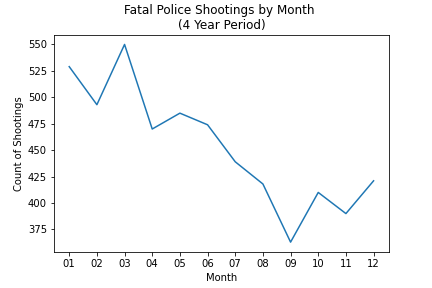
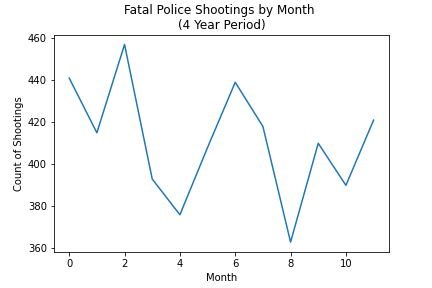
updated charts and readme

diff --git a/.virtual_documents/Analysis_SZ.ipynb.py b/.virtual_documents/Analysis_SZ.ipynb.py
@@ -71,14 +71,16 @@ plt.savefig('images/Shootings per Year.png')
 plt.show()
 
 
-monthly_shootings_df = pd.DataFrame(yearly_shootings.groupby('month')['id'].count())
-monthly_shootings_df
+# Remove 2020 information to focus on complete years available
+monthly_shootings = yearly_shootings.loc[yearly_shootings['year'] get_ipython().getoutput("= '2020']")
+# Grouped by month
+monthly_shootings_df = pd.DataFrame(monthly_shootings.groupby('month')['id'].count())
 monthly_shootings_df = monthly_shootings_df.reset_index()
 monthly_shootings_df
 
 
 # Plot
-plt.plot(monthly_shootings_df['month'], monthly_shootings_df['id'])
+plt.plot(monthly_shootings_df['id'])
 plt.title('Fatal Police Shootings by Month \n(4 Year Period)')
 plt.xlabel('Month')
 plt.ylabel('Count of Shootings')
@@ -305,13 +307,12 @@ line_eq = "y = " + str(round(slope,2)) + "x + " + str(round(intercept,2))
 plt.figure(figsize=(10,5))
 plt.scatter(x_values,y_values)
 plt.plot(x_values,regress_values,"r-")
-annotation = plt.annotate(line_eq,(2,10000000),fontsize=15,color="red")
+annotation = plt.annotate(line_eq,(2,2000000),fontsize=15,color="red")
 plt.xlabel('Shootings Per 100,000')
 plt.ylabel('Average City Population')
 plt.title('Regressiong Analysis of Fatal Shootings per 100,000 in a Four Year Period vs City Population \n(2017-2018)')
-plt.tight_layout()
 print(f"The r-squared is: {rvalue**2}")
-
+plt.tight_layout()
 # Export
 plt.savefig('images/High Level Regression_City Population Vs. Per Capita Shooting Fatalities.png')
 plt.show()
@@ -415,6 +416,3 @@ plt.tight_layout()
 # Export
 plt.savefig('images/City Population Vs. Per Capita Shooting Fatalities 2.png')
 plt.show()
-
-
-

diff --git a/README.md b/README.md
@@ -1,17 +1,20 @@
 # Fatal Police Shootings Analysis #
 **Team members:** [Brynn Hamilton](https://github.com/Brynn-Hamilton),[ Alissa Vokes](https://github.com/alissavokes), and [Saranhais Zerpa](https://github.com/szerpa17)
 
-## Project Description/Outline ##
+## Project Description ##
 The goal of our project is to examine fatal police shootings throughout the U.S. from January 2015 to June 2020. We will examine relationships between shootings, time, location (both city and state level), population size, and victim demographics (age, race, and gender).
+
+Our interest in this topic is due to the social movement taking place, Black Lives Matter, for which we want to explore existing data.
 
 ### Hypothesis ###
 **Null Hypothesis:** There is no correlation between population size and fatal police shootings.
+
 **Alternative Hypothesis:** Cities/States with higher populations have more police shootings (for every 100,000 people).
 
 
 ### Additional Research Questions ###
 1. Accounting for gender, race, and age, which demographic has had the most victims due to fatal police shootings?
-2. Will Florida (State) be one of the top 5 States with the most recorded fatal police shootings? 
+2. Will Florida (State) be one of the top 5 states with the most recorded fatal police shootings? 
 3. Which City has the most recorded fatal police shootings? 
 4. Which State has the most recorded fatal police shootings?
 5. Have police shootings increased in the past five years?
@@ -20,26 +23,25 @@ The goal of our project is to examine fatal police shootings throughout the U.S.
 
 ## Datasets ##
 * [Washington Post Police Shooting Data](https://github.com/washingtonpost/data-police-shootings)
-    * The time period focus of our project is from January 2015 to the end of June 2020.
 * [Census Population Data by State and Place - Table DP05 ACS 1-Year](https://data.census.gov/cedsci/table?q=population&g=0100000US.04000.001,.160000&hidePreview=false&tid=ACSDP1Y2018.DP05&tp=true&vintage=2018)
     * Four CSVs were obtained from the Census site.
-    * The files were used used to identify yearly city and state populations between 2015 and 2018.
-    * Due to the lack of availability of 2019 nd 2020, population averages were calculated over the selected timeframe.
-    * The 1-year estimates were used for the purpose of [currency](https://www.census.gov/programs-surveys/acs/guidance/estimates.html), though this left out populations under 65,000.
+    * The files were used to identify yearly city and state populations between 2015 and 2018.
+    * Due to the lack of availability of 2019 and 2020 population data, population averages were calculated over the selected timeframe.
+    * The 1-year estimates were used for data [currency](https://www.census.gov/programs-surveys/acs/guidance/estimates.html), though this left out populations under 65,000.
 
 ## The Cleaning Process ##
 * **Learning the Language of our Data**
     * Each Census file had over 300 columns and 600 rows of information
-    * Time was dedicated to studying how information was presented by the Census in order to accurately transform it into insights.
+    * Time was dedicated to studying how information was presented by the Census to accurately transform it into insights.
 * **Addressing NaN values**
-    * The shootings data frame had multiple columns with Nan Values.
+    * The shooting's data frame had multiple columns with NaN Values.
     * As our goal was to preserve the ID column to ensure an accurate count, we refrained from dropping NaN values and instead replaced them with the word 'Unknown'.
 * **Filtering of Data**
     * Extracted shooting data that was dated after 06/30/2020.
 * **Readability**
     * The gender and race columns variables were renamed for readability.  
 * **The handling and standardization of multiple files prior to merging**
-    * Census Data files had additional terminology associated with city names, which had to be removed with Regex in order to facilitate a future merge with the shootings data frame.
+    * Census Data files had additional terminology associated with city names, which had to be removed with Regex to facilitate a future merge with the shootings data frame.
     * Trailing spaces were removed.
     * All Census files were merged into one data frame.
     * Population averages over our chosen four year period were calculated.
@@ -47,15 +49,15 @@ The goal of our project is to examine fatal police shootings throughout the U.S.
 
 ### Insights ###
 
-* The usefullness of creating multiple data frames to address the shrinkage of Data.
-    * Cleaned and merged Census data frame - usefull for a high level view of state population.
-    * Cleaned shootings data frame - usefull for shooting specific analysis.
-    * Merged shootings/Census data frame - useful for the calculation of shooting data per 100,000 people.
+* The usefulness of creating multiple data frames to address the shrinkage of Data.
+    * Cleaned and merged Census data frame, used for a high-level view of state populations.
+    * Cleaned shooting's data frame, used for shooting specific analysis.
+    * Merged shooting's/Census data frame, used for the calculation of shooting data per 100,000 people.
 
 ### Challenges ###
-* Census Place terminology
+* Census 'Place' terminology
     * A resource for all 'place' designations was identified within the analysis stage of the project.
-    * Therefore, it is possible that cities may have been dropped due to not being matched with the appropriate Census equivalent in the Regex step of the data cleaning. 
+    * Therefore, cities may have been dropped due to not being matched with the appropriate Census equivalent in the Regex step of the data cleaning. 
     * Resource [link](https://www.census.gov/content/dam/Census/data/developers/understandingplace.pdf)
 * **File Inconsistencies**
     * Census Data files were not consistent in their use of column ID's and column description formats in all files
@@ -65,28 +67,32 @@ The goal of our project is to examine fatal police shootings throughout the U.S.
 ## Data Exploration ##
 * State and city population information was visualized
     * State
-        * Population by State Boxplot
+        * Population by State Boxplot (Zoomed, not including all outliers)
+            
             ![State Population Box Plot- Individual States](https://github.com/szerpa17/fatal-police-shootings/blob/szerpa17_2/images/State%20Box%20Plot%20Exploration.png?raw=true)
         * Combined State Average Boxplot
+            
             ![Average State Population Single Box Plot - Combined States](https://github.com/szerpa17/fatal-police-shootings/blob/master/images/Combined%20Average%20State%20Population%20Exploration.png?raw=true)
     * City
         * Combined City Boxplot
-            [Average City Population Single Box Plot - Combined Cities](https://github.com/szerpa17/fatal-police-shootings/blob/master/images/Combined%20Average%20City%20Population%20Exploration.png?raw=true)
+            
+            ![Average City Population Single Box Plot - Combined Cities](https://github.com/szerpa17/fatal-police-shootings/blob/master/images/Combined%20Average%20City%20Population%20Exploration.png?raw=true)
         
 ### Insights ###
 * Census Data
     * This dataset may be limiting in the findings it can provide as it excludes populations under 65,000, which may demonstrate different trends.
     * Outliers
-        * Visual exploration on state and city data identified the presence of outliers. 
-        * Our hypothesis is focused on population size, therefore, it was determined that outliers would be maintained for our analysis in order to gain additional insights on these populations.
+        * Visual exploration of state and city data identified the presence of outliers. 
+        * Our hypothesis is focused on population size, therefore, it was determined that outliers would be maintained for our analysis to gain additional insights into these populations.
 
 ### Challenges ###
 * Accounting for "Unknown" values in numeric columns.
     * Though inputting these values in place of NaNs in the cleaning stage, these values made data analysis more complex when dealing with numeric columns. 
 * Scope Creep
-    * Due to not removing data columns that werent a part of our scope, it was difficult to avoid from scope creep.
+    * Due to not removing data columns that were not a part of our scope, it was difficult to avoid scope creep.
     * The mass size of our data also contributed to scope creep as we did not pull samples from our data for analysis.
-* Backtracking to validate the results of plotted charts. 
+* Identifying the opportunity for additional data frames to be made as a foundation for data analysis in the exploration phase (such as a Census data frame that pulls city shooting data for state per capita calculations).
+* The process of backtracking to validate the results of plotted charts. 
 * Application of complicated visualizations.
 * Time - which limited analysis and visual details on charts. 
 
@@ -96,10 +102,12 @@ The goal of our project is to examine fatal police shootings throughout the U.S.
 ## Findings ##
 **Hypothesis results**
 
+A note on R-squared values - data based on human behavior can often have a low r-squared as it is difficult to predict and show statistical significance. ([Source](https://statisticsbyjim.com/glossary/regression-analysis/))
+
 **State:** 
 * No visible correlation
 * Low R-squared: 0.09013598548243928
-* Null hypothesis was found to be True
+* The null hypothesis was found to be true.
     * [Analysis Location](https://github.com/szerpa17/fatal-police-shootings/blob/master/Analysis_SZ.ipynb)
 
         ![State Scatter Plot](https://github.com/szerpa17/fatal-police-shootings/blob/master/images/High%20Level_State%20Population%20Vs.%20Per%20Capita%20Shooting%20Fatalities.png?raw=true)
@@ -110,8 +118,8 @@ The goal of our project is to examine fatal police shootings throughout the U.S.
         
         
 **City:**
-* Inverse correlation. implying larger cities have less police shootings per capita.
-* Low R-squared: 0.09013598548243928
+* Smaller R-squared value, but a more visible grouping of cities, visually implying larger cities have fewer police shootings per capita.
+* Low R-squared: 0.0026383280666281714
 * Neither hypothesis could be accepted.
     * [Analysis Location](https://github.com/szerpa17/fatal-police-shootings/blob/master/Analysis_SZ.ipynb)
 
@@ -119,17 +127,18 @@ The goal of our project is to examine fatal police shootings throughout the U.S.
 
         ![City Regression](https://github.com/szerpa17/fatal-police-shootings/blob/master/images/High%20Level%20Regression_City%20Population%20Vs.%20Per%20Capita%20Shooting%20Fatalities.png?raw=true)
 
-        ![City Trends - Subplots 1](https://github.com/szerpa17/fatal-police-shootings/blob/master/images/City%20Population%20Vs.%20Per%20Capita%20Shooting%20Fatalities%201.png?raw=true)
-
-        ![City Trends - Subplots 2](https://github.com/szerpa17/fatal-police-shootings/blob/master/images/City%20Population%20Vs.%20Per%20Capita%20Shooting%20Fatalities%202.png?raw=true)
+        ![City Trends - Subplots 1](https://github.com/szerpa17/fatal-police-shootings/blob/master/images/City%20Population%20Vs.%20Per%20Capita%20Shooting%20Fatalities%202.png?raw=true)
+        
+        ![City Trends - Subplots 2](https://github.com/szerpa17/fatal-police-shootings/blob/master/images/City%20Population%20Vs.%20Per%20Capita%20Shooting%20Fatalities%201.png?raw=true)
+        
 
 * Questions Answered:
 1. Accounting for gender, race, and age, which demographic has had the most victims due to fatal police shootings?
     * The demographic with the most victims due to fatal police shootings are white males between the ages of 31-35.
     * [Analysis Location](https://github.com/szerpa17/fatal-police-shootings/blob/master/Analysis_BH.ipynb)
 
-2. Will Florida (State) be one of the top 5 States with the most recorded fatal police shootings? 
-    * Florida is among the top 5 States (#3) with the most fatal police shootings.
+2. Will Florida (State) be one of the top 5 states with the most recorded fatal police shootings? 
+    * Florida is among the top 5 states (#3) with the most fatal police shootings.
     * [Analysis Location](https://github.com/szerpa17/fatal-police-shootings/blob/master/Analysis_BH.ipynb)
     
 3. Which City has the most recorded fatal police shootings? 
@@ -139,7 +148,7 @@ The goal of our project is to examine fatal police shootings throughout the U.S.
         Houston
         Las Vegas
         San Antonio
-     * [Analysis Location](https://github.com/szerpa17/fatal-police-shootings/blob/master/Analysis_BH.ipynb)
+    * [Analysis Location](https://github.com/szerpa17/fatal-police-shootings/blob/master/Analysis_BH.ipynb)
             
 
 4. Which State has the most recorded fatal police shootings?
@@ -149,7 +158,7 @@ The goal of our project is to examine fatal police shootings throughout the U.S.
         Florida
         Arizona
         Colorado 
-     * [Analysis Location](https://github.com/szerpa17/fatal-police-shootings/blob/master/Analysis_BH.ipynb)
+    * [Analysis Location](https://github.com/szerpa17/fatal-police-shootings/blob/master/Analysis_BH.ipynb)
      
 [Visual Location](https://github.com/szerpa17/fatal-police-shootings/blob/master/Analysis.ipynb "Visual for Questions three and four")
                 
@@ -162,7 +171,7 @@ The goal of our project is to examine fatal police shootings throughout the U.S.
        ![Shooting Analysis by Year ](https://github.com/szerpa17/fatal-police-shootings/blob/master/images/Shootings%20per%20Year.png?raw=true) 
     
 6. Is there a particular time of the year during which police shootings occur more frequently?
-    * Most police shootings take place in the beginning of the year.
+    * Most police shootings take place at the beginning of the year.
     * [Analysis Location](https://github.com/szerpa17/fatal-police-shootings/blob/master/Analysis_SZ.ipynb)
         
         ![Shooting Analysis by Month ](https://github.com/szerpa17/fatal-police-shootings/blob/master/images/Shootings%20by%20Month.png?raw=true) 
@@ -192,16 +201,21 @@ The goal of our project is to examine fatal police shootings throughout the U.S.
 
 
 
-## Opportunities ##
-There are many opportunities for further exploration of this dataset in the below areas.
+## Commentary and Opportunities ##
+
+It is worth further investigating these populations with the removal of outliers to confirm the visual trend due to the extremely low r-squared values obtained. This project could also become narrower in scope to focus on one state or a sample of states/cities for further insights.
+
+** In regards to the results, though white males are a majority of the victims, according to the [Census Quickfacts](https://www.census.gov/quickfacts/fact/table/US/PST045219) 2019 estimates - the white population accounts for 76.3 percent of the U.S. population. Therefore the number of black victims is not proportional to the black population (listed as 13.4 percent of the U.S. population). This data analysis is still not complete without the factoring of the population makeup within each state/city area or the identification of per capita deaths by race population, which is integral to the topic of police violence. **
+
+There are also many additional opportunities for further exploration of this dataset in the below areas (though data may not be currently captured and released to the public on all of the below).
 
 * Additional Data Comparisons:
-    * Race Specific Population Data
-    * Income Inequality
-    * Police Funding in relation to fatal police shootings
-    * Instances of police brutality, and non lethal shootings
-    * Officer Data - shooting instances, length of service 
+    * Income inequality
+    * Police funding vs fatal police shootings
+    * Instances of police brutality, and non-lethal shootings
+    * Officer data - shooting instances, length of service 
     * Officer staff count in city/state location
+    * Political affiliation within each state/city in comparison to shootings.
 * Visualizations:
     * Maps
 * Relationships between other factors in the shootings data set and shooting fatalities:
